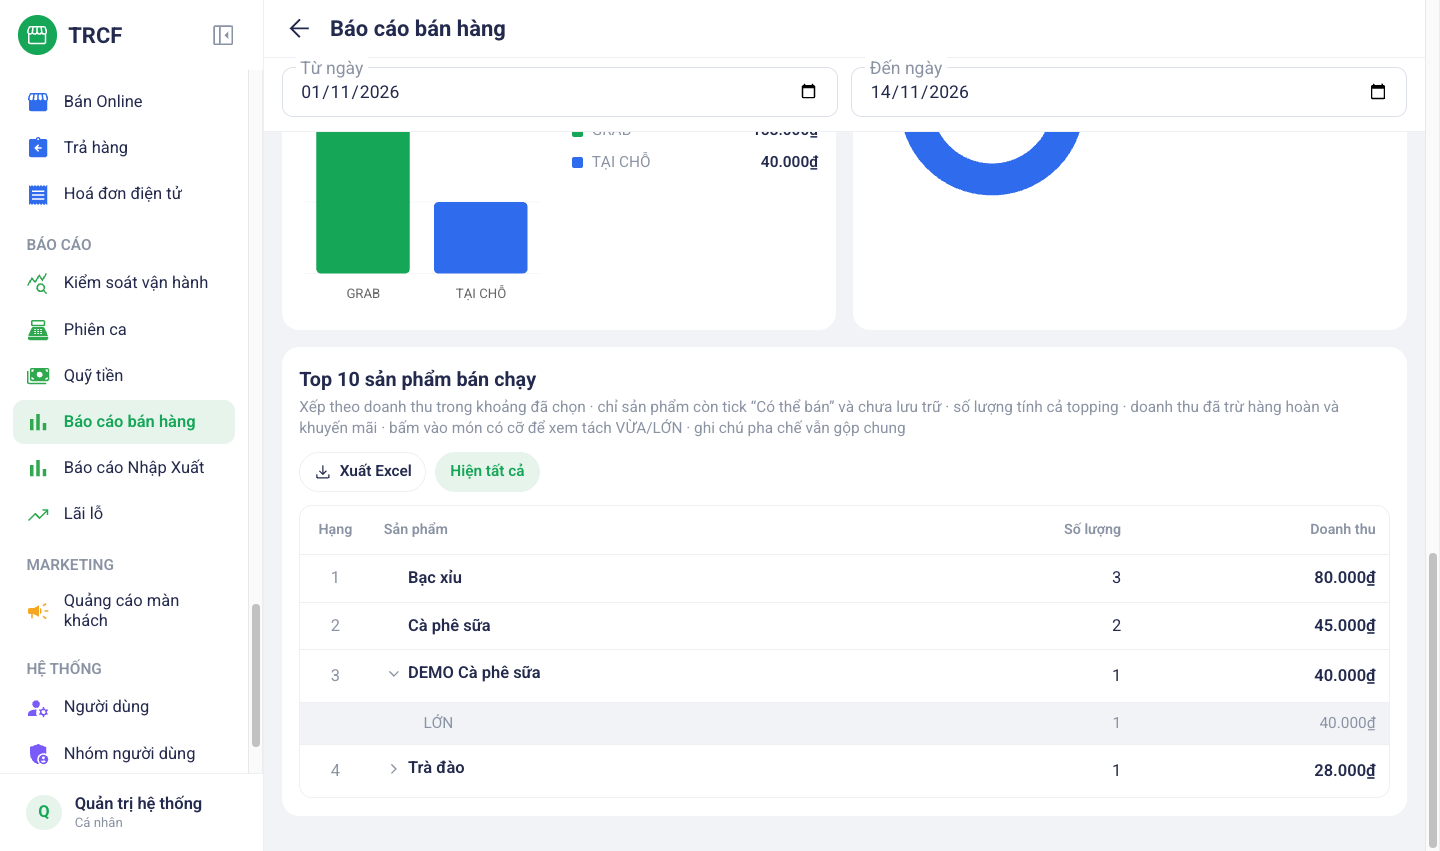
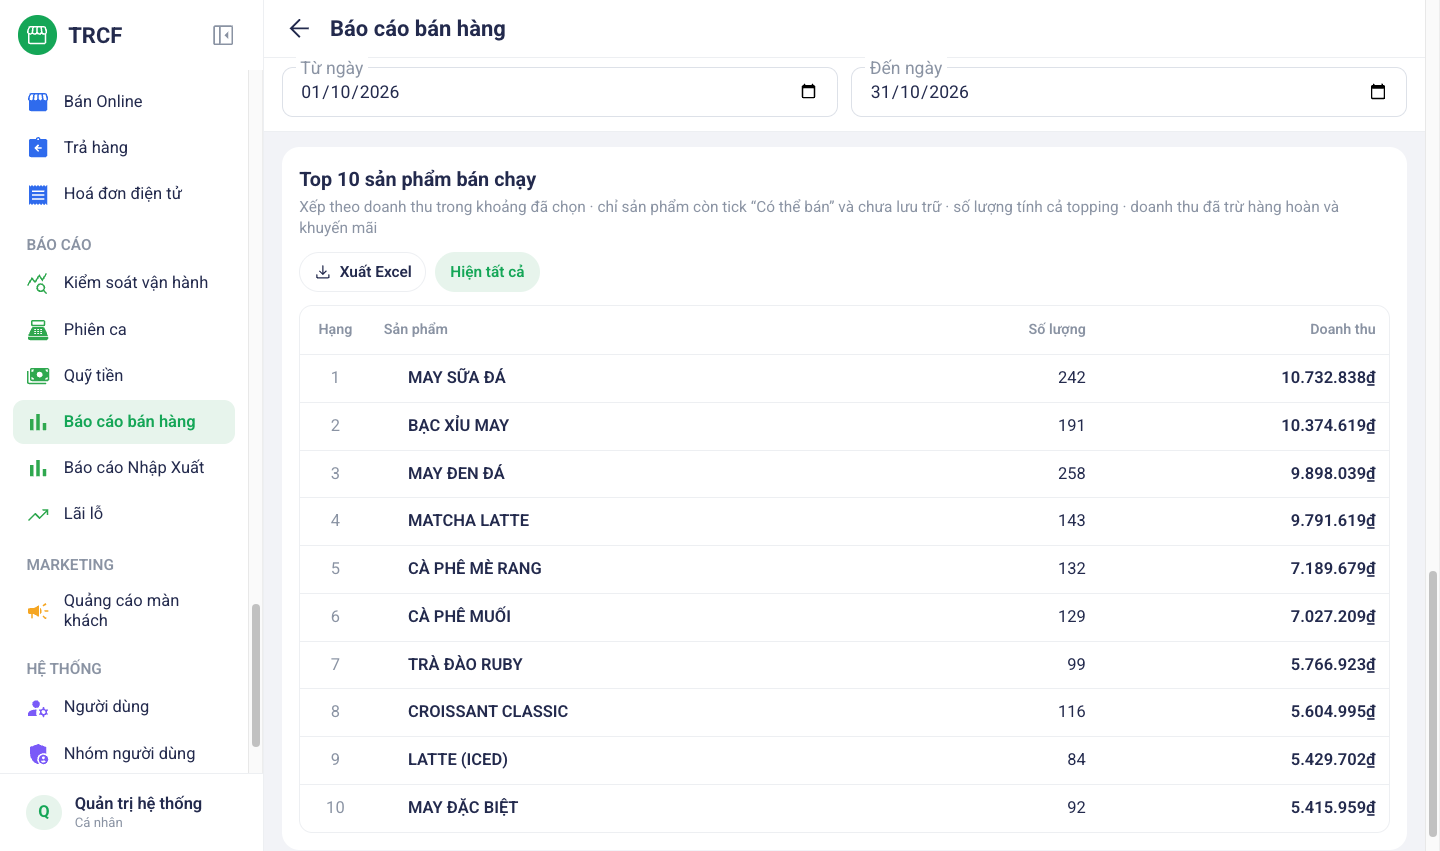
docs(12.1, 12.2): báo cáo bán hàng và lãi lỗ chụp trên dữ liệu mẫu theo menu thật

diff --git a/noi-dung/12-2-bao-cao-lai-lo.md b/noi-dung/12-2-bao-cao-lai-lo.md
@@ -14,10 +14,11 @@ Menu trái: ==Báo cáo → Lãi lỗ== (địa chỉ `/pnl-report`, tiêu đề
 
 ## 2. Ví dụ nền và các bước thực hiện
 
-> **Ví dụ:** chủ quán xem kết quả kinh doanh 6 tháng gần nhất (**Tháng 6/2026** – **Tháng 11/2026**).
+> **Ví dụ:** chủ quán xem kết quả kinh doanh 6 tháng gần nhất (**Tháng 6/2026** – **Tháng 11/2026**), là kỳ mặc định khi mở trang. Số trên ảnh là dữ liệu mẫu.
 >
-> - Đây là kỳ mặc định khi mở trang.
-> - Trên máy này: **Doanh thu bán** **141.000₫**. Chưa có đơn mua hàng và phiếu chi nào, nên **Lãi gộp** và **Lợi nhuận trước thuế** cũng là **141.000₫** (100.0%).
+> - **Lợi nhuận trước thuế** **276.036.000₫**, biên lãi **28,6%**.
+> - Chi phí vận hành lớn nhất là **LƯƠNG NHÂN VIÊN** (17,4% doanh thu) rồi tới **MẶT BẰNG** (11,2%).
+> - Cột **Th11** thấp vì tháng 11 mới tới giữa tháng.
 
 ### Bước 1: Chọn kỳ, đọc 4 ô tổng và bảng Kết quả kinh doanh
 
@@ -47,10 +48,10 @@ Doanh thu bán                 (đơn đã thanh toán − hàng hoàn)
   =  Lợi nhuận trước thuế
 ```
 
-> **Ví dụ minh hoạ** (số giả định, không phải số trên ảnh):
+> **Ví dụ** (theo ảnh bước 1):
 >
-> - Doanh thu bán 100 triệu − chi phí nhập hàng 40 triệu = lãi gộp 60 triệu (60%).
-> - Lãi gộp 60 triệu − chi phí vận hành 35 triệu = lợi nhuận trước thuế 25 triệu (25%).
+> - Doanh thu bán 963.744.000₫ − chi phí nhập hàng 377.958.000₫ = lãi gộp 585.786.000₫ (60,8%).
+> - Lãi gộp 585.786.000₫ − chi phí vận hành 309.750.000₫ = lợi nhuận trước thuế 276.036.000₫ (28,6%).
 
 ### Từng ô lấy số từ đâu
 

diff --git a/noi-dung/12-1-bao-cao-ban-hang.md b/noi-dung/12-1-bao-cao-ban-hang.md
@@ -13,15 +13,17 @@ Menu trái: ==Báo cáo → Báo cáo bán hàng== (địa chỉ `/sales-report`
 
 ## 2. Ví dụ nền và các bước thực hiện
 
-> **Ví dụ:** quản lý xem kết quả bán từ đầu tháng tới hôm nay (**01/11/2026** – **14/11/2026**).
+> **Ví dụ:** quản lý xem kết quả bán **tháng 10/2026** (**01/10/2026** – **31/10/2026**), so với tháng 9. Số trên ảnh là dữ liệu mẫu, làm theo menu và giá thật của quán.
 >
-> - Đây là khoảng ngày mặc định khi mở trang.
-> - Trên máy này: **5** đơn đã thanh toán, **Tổng doanh thu** **193.000₫**.
+> - **1.671** đơn, **Tổng doanh thu** **192.590.000₫**.
+> - Số đơn tăng 8,2% nhưng **Giá trị TB/đơn** giảm 3,6%: khách đông hơn mà mỗi khách mua ít hơn → đẩy bán thêm bánh, topping.
+> - Giờ đông nhất: **8h** sáng và **15h** chiều.
+> - **MAY SỮA ĐÁ** đứng đầu doanh thu, còn **MAY ĐEN ĐÁ** bán nhiều ly nhất (258 ly).
 
 ### Bước 1: Chọn kỳ và đọc các ô tổng
 
 - Ở menu trái, nhóm **Báo cáo**, bấm **Báo cáo bán hàng**.
-- Chọn **Từ ngày**, **Đến ngày** ở đầu trang. Trang tự tải lại số.
+- Chọn **Từ ngày**, **Đến ngày** ở đầu trang (mặc định: đầu tháng tới hôm nay). Trang tự tải lại số.
 - Dòng nhỏ dưới mỗi số so với kỳ liền trước cùng độ dài. Kỳ trước chưa bán gì thì hiện *Không có kỳ trước để so*.
 
 ![Bước 1: Chọn kỳ và đọc các ô tổng](images/08-ban-hang-buoc-1-tong-quan.png)
